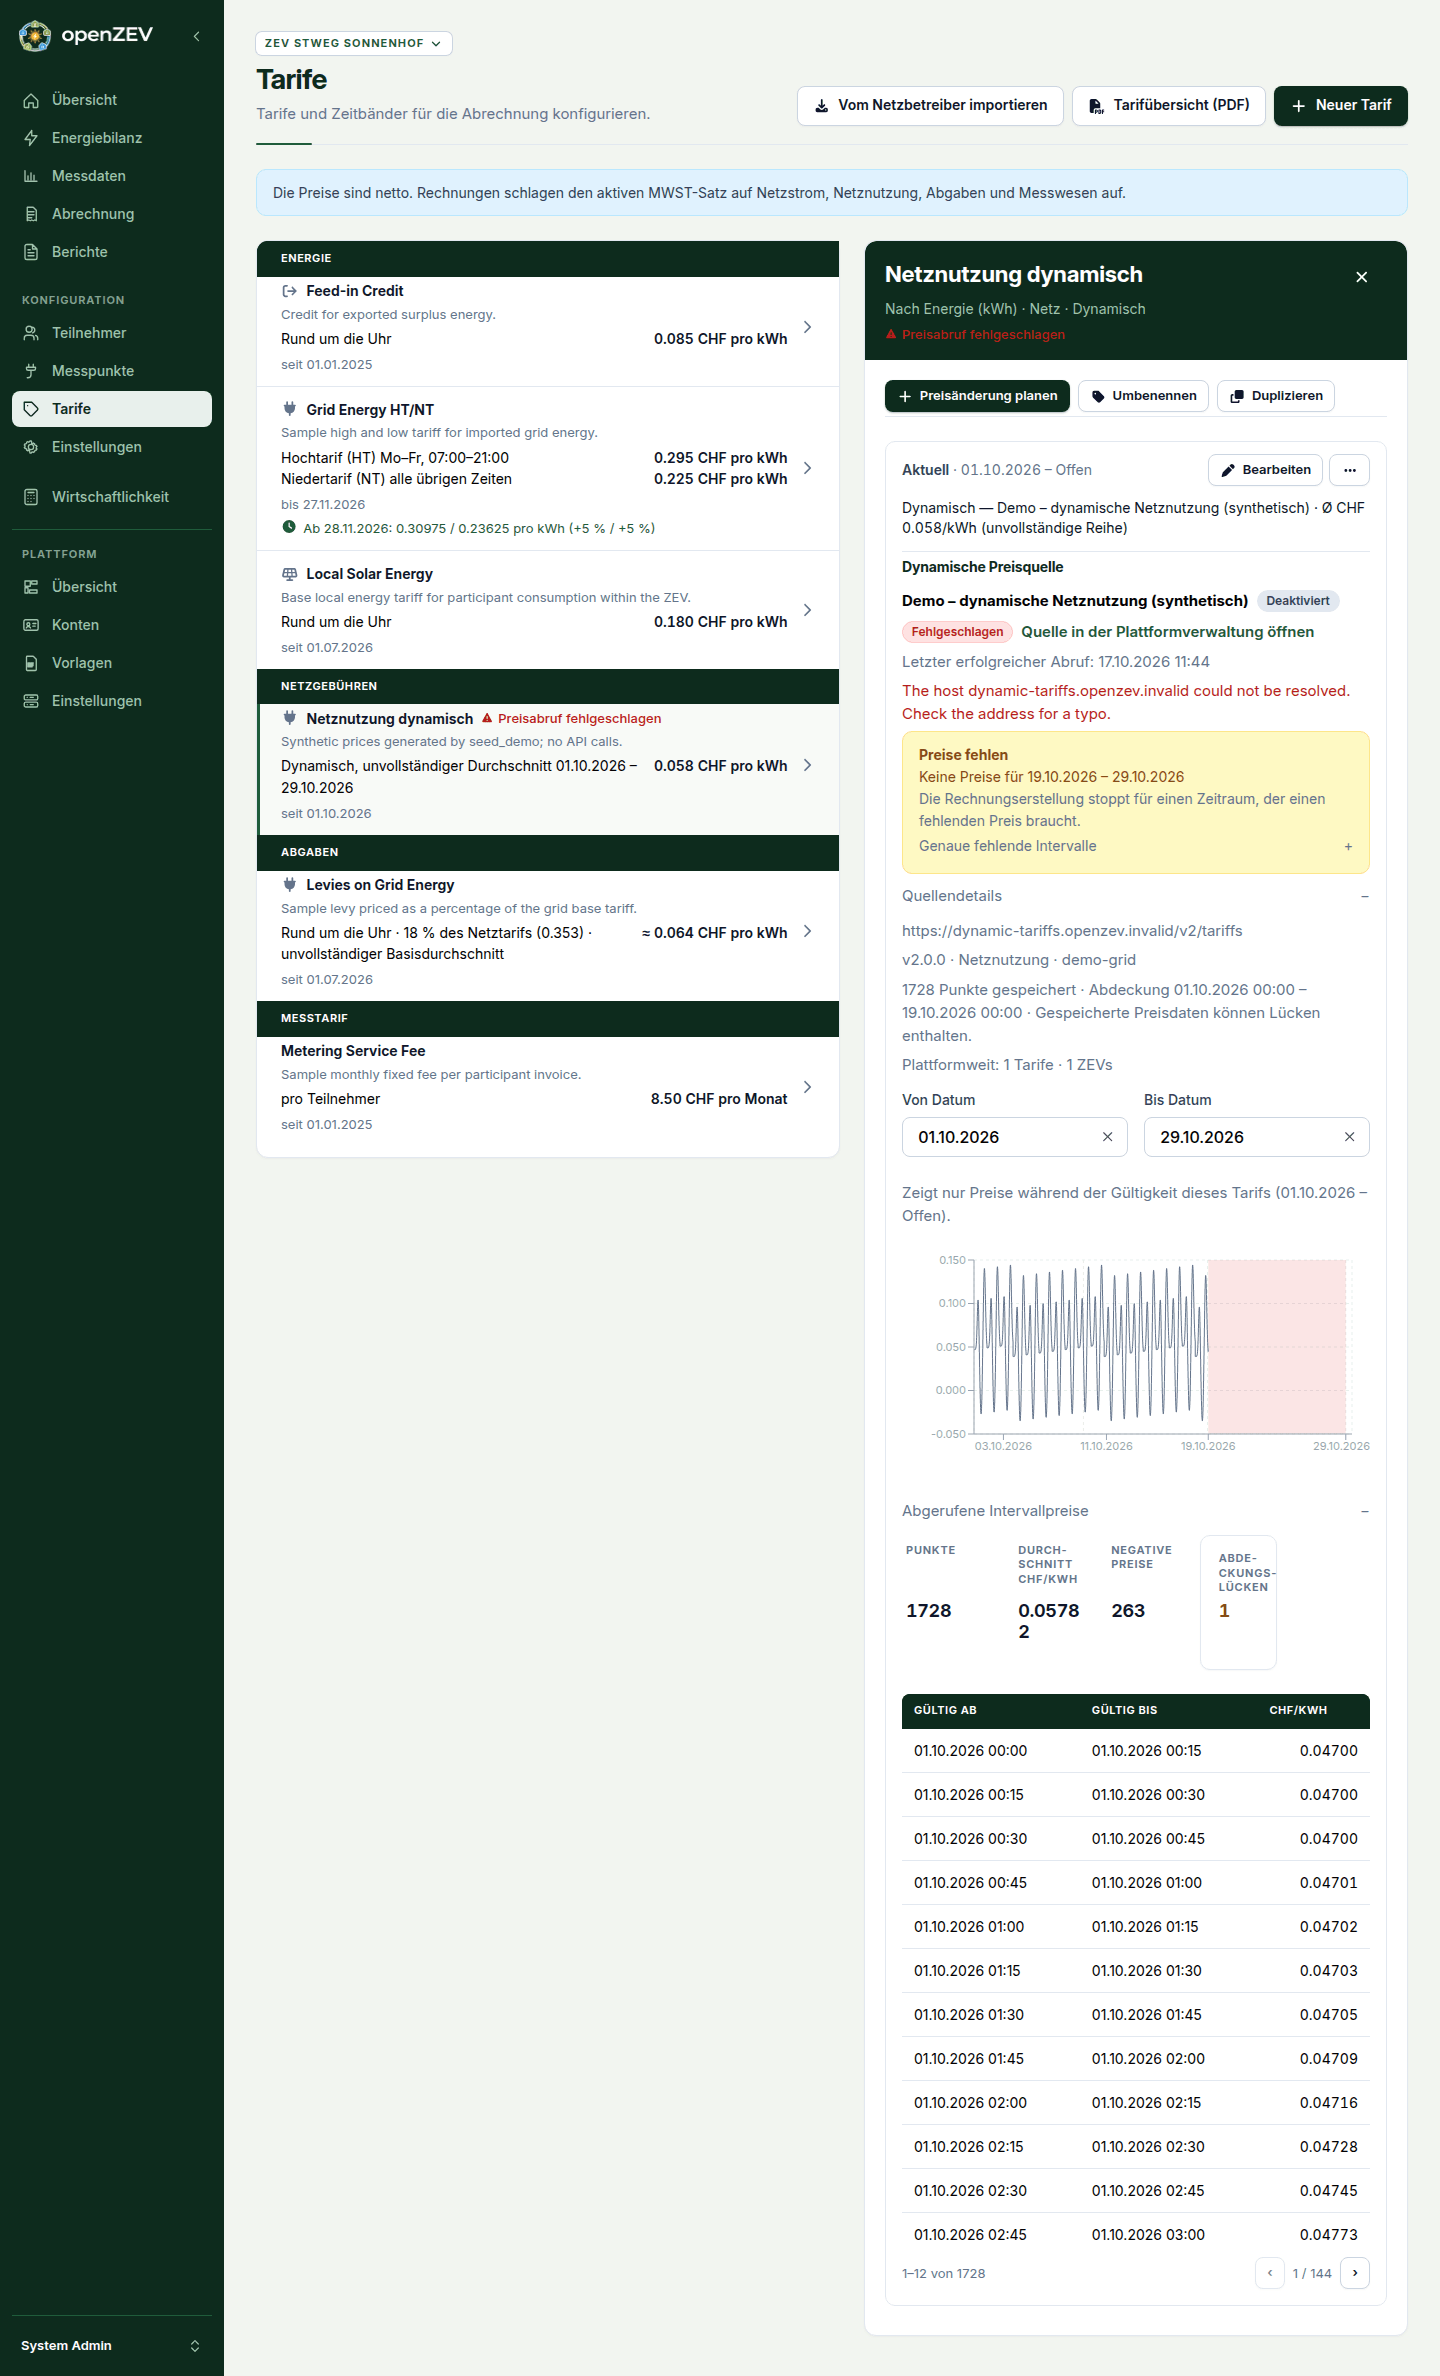
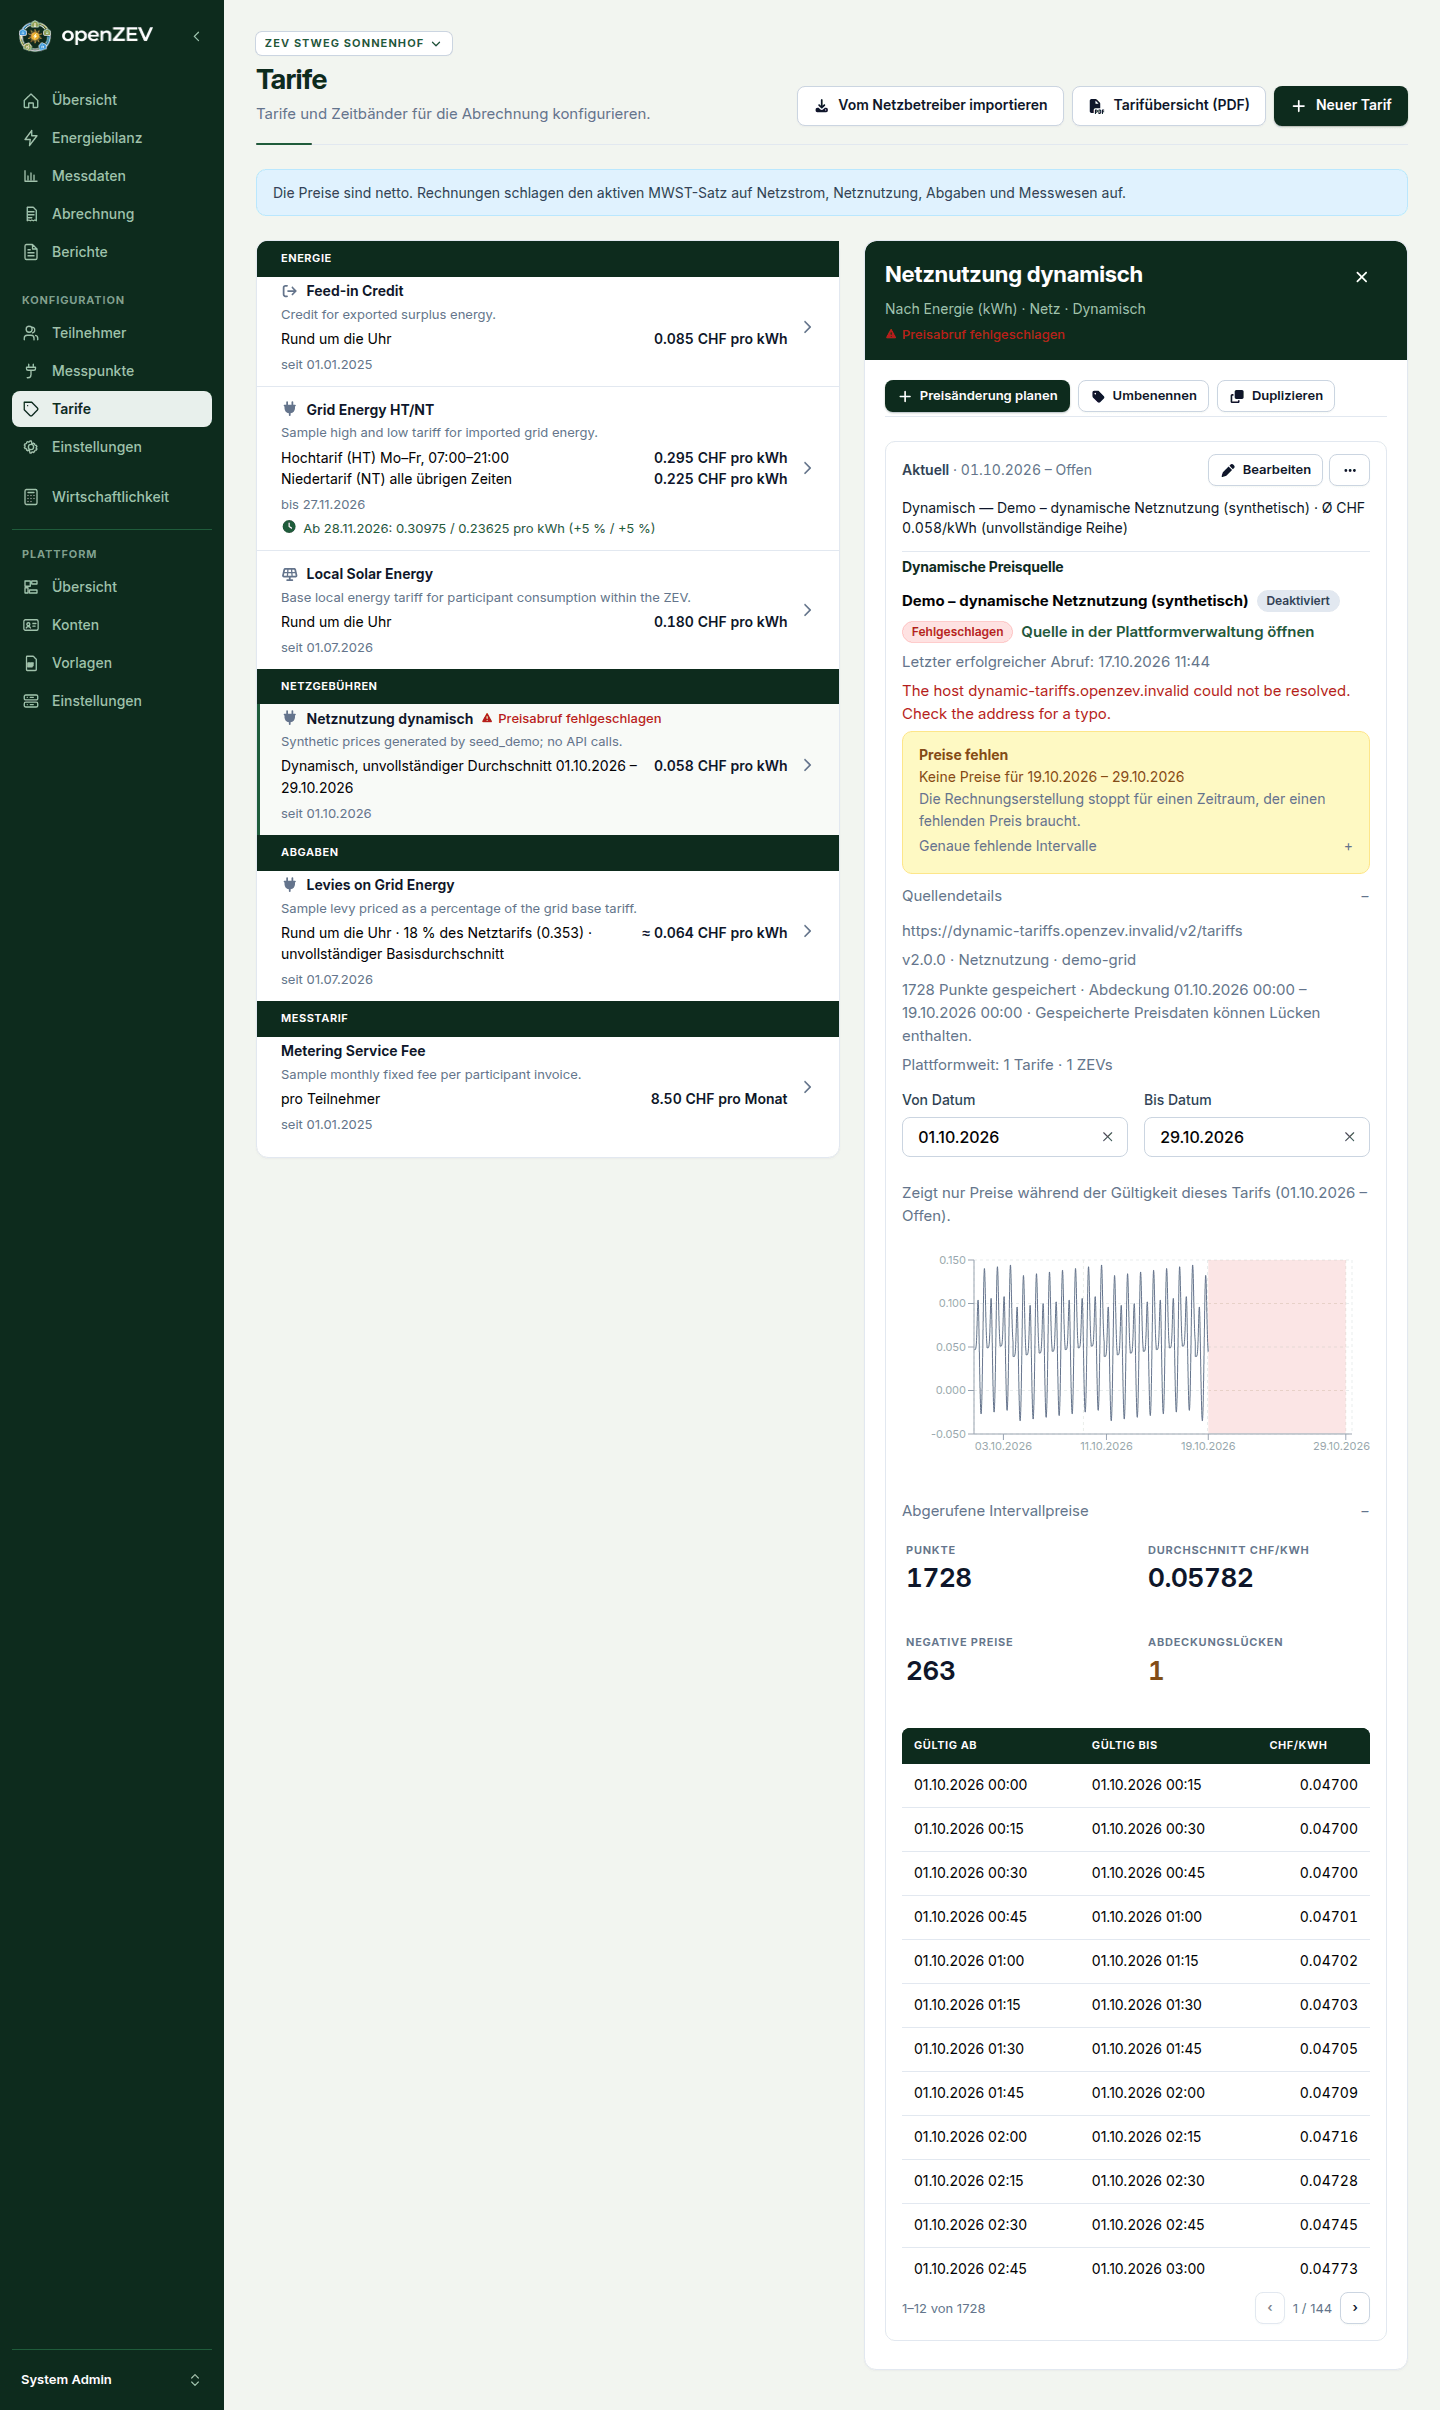
fix(tariffs): lay the fetched-price statistics out two by two in the pane
The statistics row used the dashboard's five-column hero template, so in the
narrow pane the figures wrapped and the labels broke mid-word. The tiles now
fit as many columns as the width allows, and the gaps tile is flat like the rest.

diff --git a/frontend/src/features/tariffs/DynamicPriceHistoryModal.tsx b/frontend/src/features/tariffs/DynamicPriceHistoryModal.tsx
@@ -222,7 +222,7 @@ export function DynamicPriceHistoryPanel({ source, tariff, compact = false }: Pa
   const validityMax = tariff ? validityUpperBound(tariff, today) : undefined
 
   const statCards = stats && (
-    <div className="kpi-row">
+    <div className="kpi-row kpi-row--fit">
       <StatCard label={t('pages.dynamicSources.history.points')} value={stats.point_count} flat />
       <StatCard
         label={t('pages.dynamicSources.history.average')}
@@ -234,6 +234,7 @@ export function DynamicPriceHistoryPanel({ source, tariff, compact = false }: Pa
         label={t('pages.dynamicSources.history.gaps')}
         value={stats.gap_count}
         tone={stats.gap_count > 0 ? 'warning' : 'success'}
+        flat
       />
     </div>
   )

diff --git a/frontend/src/styles/components/stat-tiles.css b/frontend/src/styles/components/stat-tiles.css
@@ -116,6 +116,14 @@
   gap: 1rem;
 }
 
+/* A row of equal tiles with no hero (the fetched-price statistics): as many
+   columns as fit, so a narrow detail pane gets two by two instead of five
+   slivers that break the figures. */
+
+.kpi-row.kpi-row--fit {
+  grid-template-columns: repeat(auto-fit, minmax(9.5rem, 1fr));
+}
+
 /* The dark figure tile — the invoice's savings tile. At most one per view. */
 
 .stat-card--accent {

diff --git a/docs/specs/2026-09-dynamic-tariffs.md b/docs/specs/2026-09-dynamic-tariffs.md
@@ -780,6 +780,8 @@ positive coverage and maintenance-link permissions.
   with the shared range label and previous/next buttons; paging keeps the date
   range, and a new range returns to the first page. The modal keeps the default
   page size (`tests/dynamic-price-history-paging.test.ts`).
+  The statistics are four flat `StatCard`s in a `.kpi-row.kpi-row--fit` (as many
+  columns as fit, 9.5rem minimum), so the pane shows them two by two.
 - **`AdminDynamicSourcesPanel`** — routed as `/admin/dynamic-sources` in the
   Admin Overview hub. It displays global source/point/reuse/failure KPIs and a
   `DataTable` with current fetch state, last error/time and reuse counts. Its
